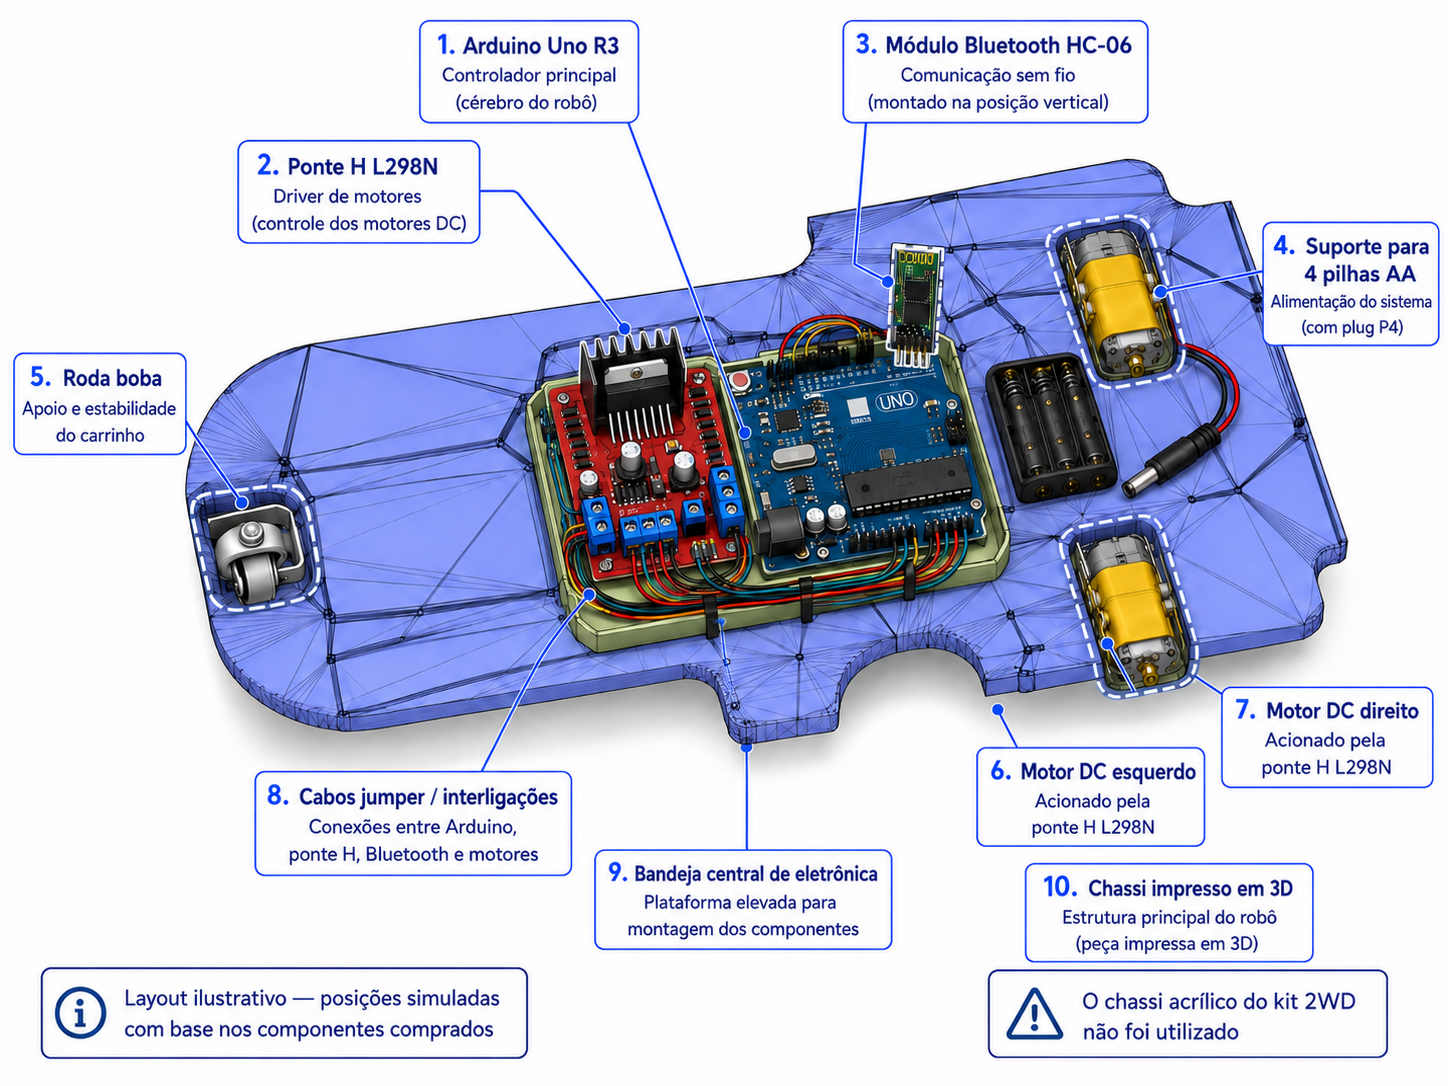
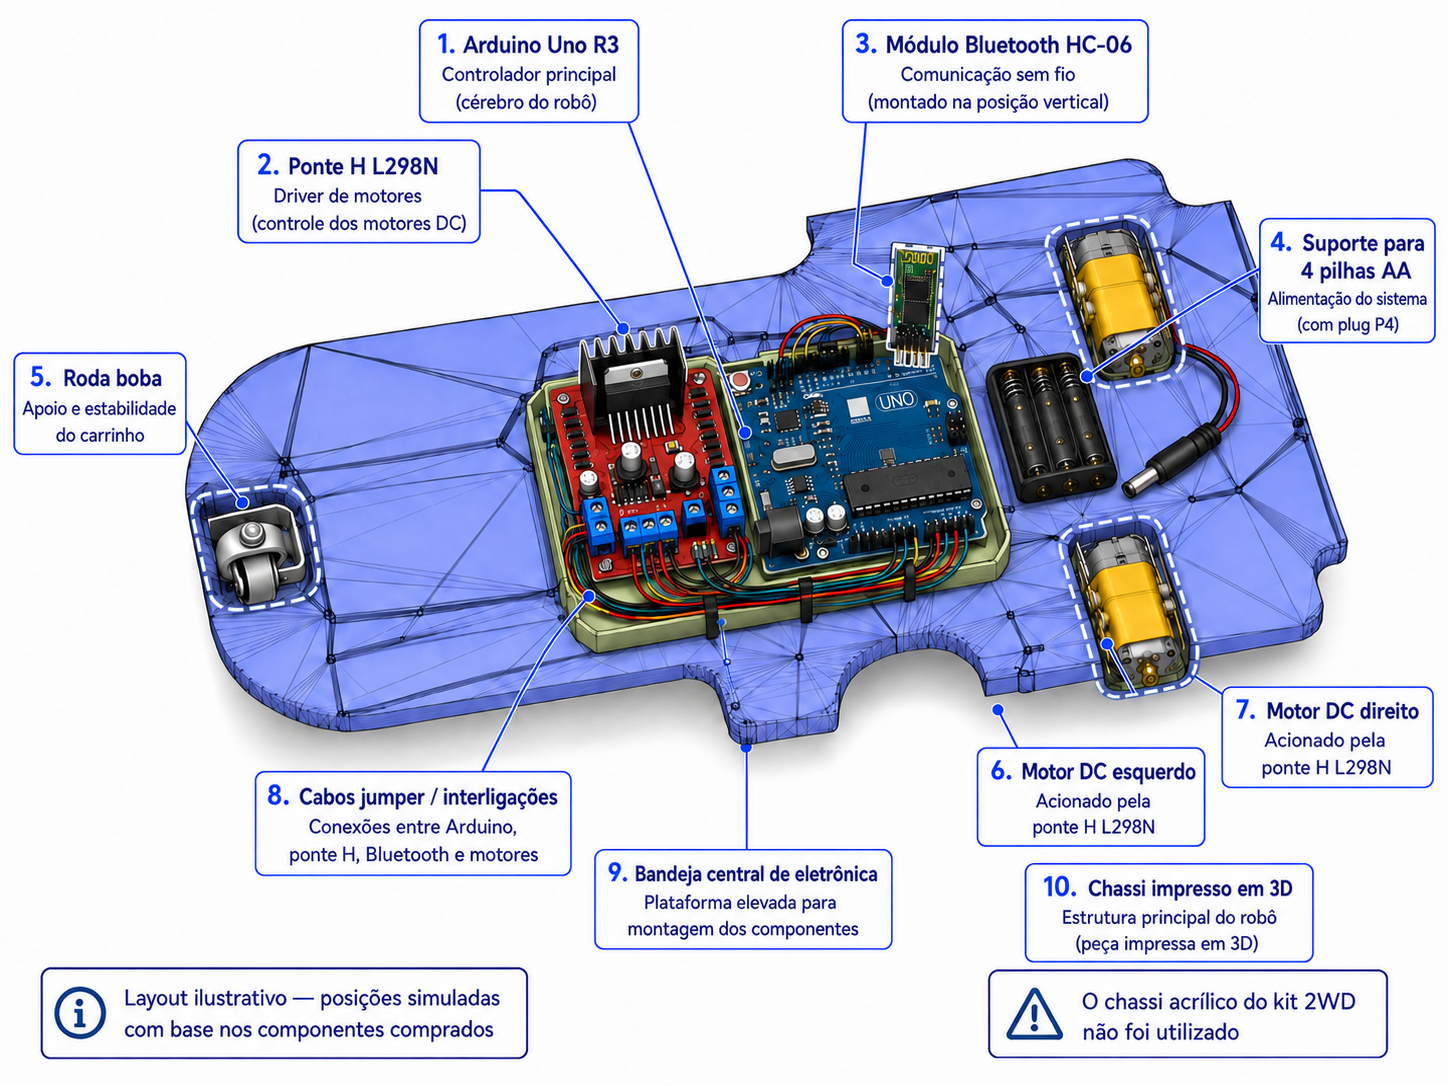
versão 2

diff --git a/README.md b/README.md
@@ -2,12 +2,12 @@
 
 ## Documentação Técnica
 
-**Disciplina:** Maker Lab  
+**Disciplina:** Project Maker Lab  
 **Projeto:** Carrinho controlado pelo celular com Bluetooth e Arduino Uno  
-**Grupo:** [preencher]  
-**Integrantes:** [preencher]  
-**Turma:** [preencher]  
-**Data:** [preencher]  
+**Integrantes:**
+- Geovanna Silva Cunha RM97736
+- Victor Camargo Maciel RM98384
+**Turma:** 4ESPX
 
 ---
 
@@ -15,7 +15,7 @@
 
 Este projeto consiste no desenvolvimento de um carrinho robótico controlado por celular, utilizando comunicação **Bluetooth** e uma placa **Arduino Uno R3** como unidade de controle principal.
 
-O carrinho foi montado com base em um **chassi impresso em 3D**, diferente do chassi acrílico que acompanhava o kit 2WD. O sistema permite movimentação para frente, para trás e mudança de direção por meio do acionamento independente dos motores laterais.
+O carrinho foi montado com base em um **chassi impresso em 3D**. O sistema permite movimentação para frente, para trás e mudança de direção por meio do acionamento independente dos motores laterais.
 
 Além da parte funcional, foi proposta uma **carenagem decorativa inspirada na Máquina Mistério (Scooby-Doo)**, produzida em **papelão Paraná** e pintura manual.
 
@@ -48,7 +48,6 @@ Desenvolver um carrinho robótico com controle remoto via smartphone, integrando
 | 1 | Chassi impresso em 3D | Estrutura principal |
 | 1 | Carenagem em papelão Paraná | Cobertura e decoração |
 
-> **Observação:** o kit 2WD fornecia um chassi acrílico, porém **ele não foi utilizado** no projeto final.
 
 ---
 
@@ -100,7 +99,7 @@ Celular → Bluetooth HC-06 → Arduino Uno → Ponte H L298N → Motores DC →
 
 ### 6.1 Chassi
 
-O chassi do carrinho foi **impresso em 3D** e serve como base para a montagem de toda a eletrônica. No centro há uma bandeja elevada para acomodar os componentes principais.
+O chassi do carrinho foi **impresso em 3D** e serve como base para a montagem de toda a eletrônica. Também foi impresso uma tampa para proteção dos componentes.
 
 <p align="center">
   <img src="./images/chassi_isometrico.png" width="700" alt="Vista isométrica do chassi impresso em 3D">
@@ -172,7 +171,6 @@ As medidas abaixo são estimadas com base no modelo 3D do projeto:
 | Largura do chassi | ≈ 130–138 mm |
 | Quantidade de motores | 2 |
 
-> **Ressalva:** as medidas foram extraídas do modelo fornecido e devem ser consideradas como aproximações.
 
 ---
 
@@ -186,18 +184,10 @@ A professora solicitou a inclusão da carenagem do projeto. Para isso, foi propo
 - **Acabamento:** pintura manual;
 - **Formato:** caixa/cobertura retangular simples;
 - **Referência visual:** Máquina Mistério do Scooby-Doo;
-- **Tampa superior removível:** para acesso à eletrônica;
-- **Recorte frontal:** para a roda boba;
-- **Recortes laterais:** para compatibilidade com os 2 motores.
 
 ### 8.2 Função da carenagem
 
-A carenagem tem como objetivo:
-
-- proteger parcialmente os componentes;
-- melhorar o acabamento visual do carrinho;
-- representar o tema escolhido pelo grupo;
-- permitir manutenção por meio de tampa removível.
+A carenagem tem como objetivo melhorar o acabamento visual do carrinho.
 
 ### 8.3 Simulação da carenagem proposta
 
@@ -217,10 +207,9 @@ A carenagem pode ser construída com as seguintes etapas:
 2. Cortar os painéis do papelão Paraná.
 3. Montar a estrutura principal em formato retangular.
 4. Fazer os recortes frontais e laterais.
-5. Criar a tampa removível superior.
-6. Pintar a estrutura com as cores da Máquina Mistério.
-7. Adicionar detalhes decorativos, como flores e a escrita lateral.
-8. Fixar a carenagem ao chassi com fita dupla face, encaixes ou outro método leve.
+5. Pintar a estrutura com as cores da Máquina Mistério.
+6. Adicionar detalhes decorativos, como flores e a escrita lateral.
+7. Fixar a carenagem ao chassi com fita dupla face, encaixes ou outro método leve.
 
 ---
 
@@ -230,40 +219,4 @@ O projeto do carrinho controlado por celular permitiu integrar hardware, softwar
 
 Além da parte eletrônica e mecânica, a proposta da carenagem agregou valor visual ao projeto, tornando o protótipo mais completo e alinhado com a identidade temática escolhida pelo grupo.
 
-A documentação em Markdown facilita a publicação e entrega pelo GitHub, permitindo versionamento, visualização online e organização do projeto em repositório.
 
----
-
-## 11. Pendências para completar antes da entrega final
-
-Preencher, se necessário:
-
-- nome dos integrantes;
-- turma;
-- data;
-- aplicativo utilizado no celular;
-- material exato de pintura;
-- método final de fixação da carenagem;
-- medidas reais da carenagem depois da montagem.
-
----
-
-## 12. Estrutura sugerida para o repositório no GitHub
-
-```text
-/projeto-carrinho-makerlab
-│
-├── README.md
-│
-├── images/
-│   ├── chassi_isometrico.png
-│   ├── chassi_superior.png
-│   ├── chassi_posterior.png
-│   ├── posicao_componentes.png
-│   └── carenagem_mystery_machine.png
-│
-└── src/
-    └── carrinho.ino
-```
-
-Se quiser, o `README.md` pode ser o próprio arquivo principal da documentação.
